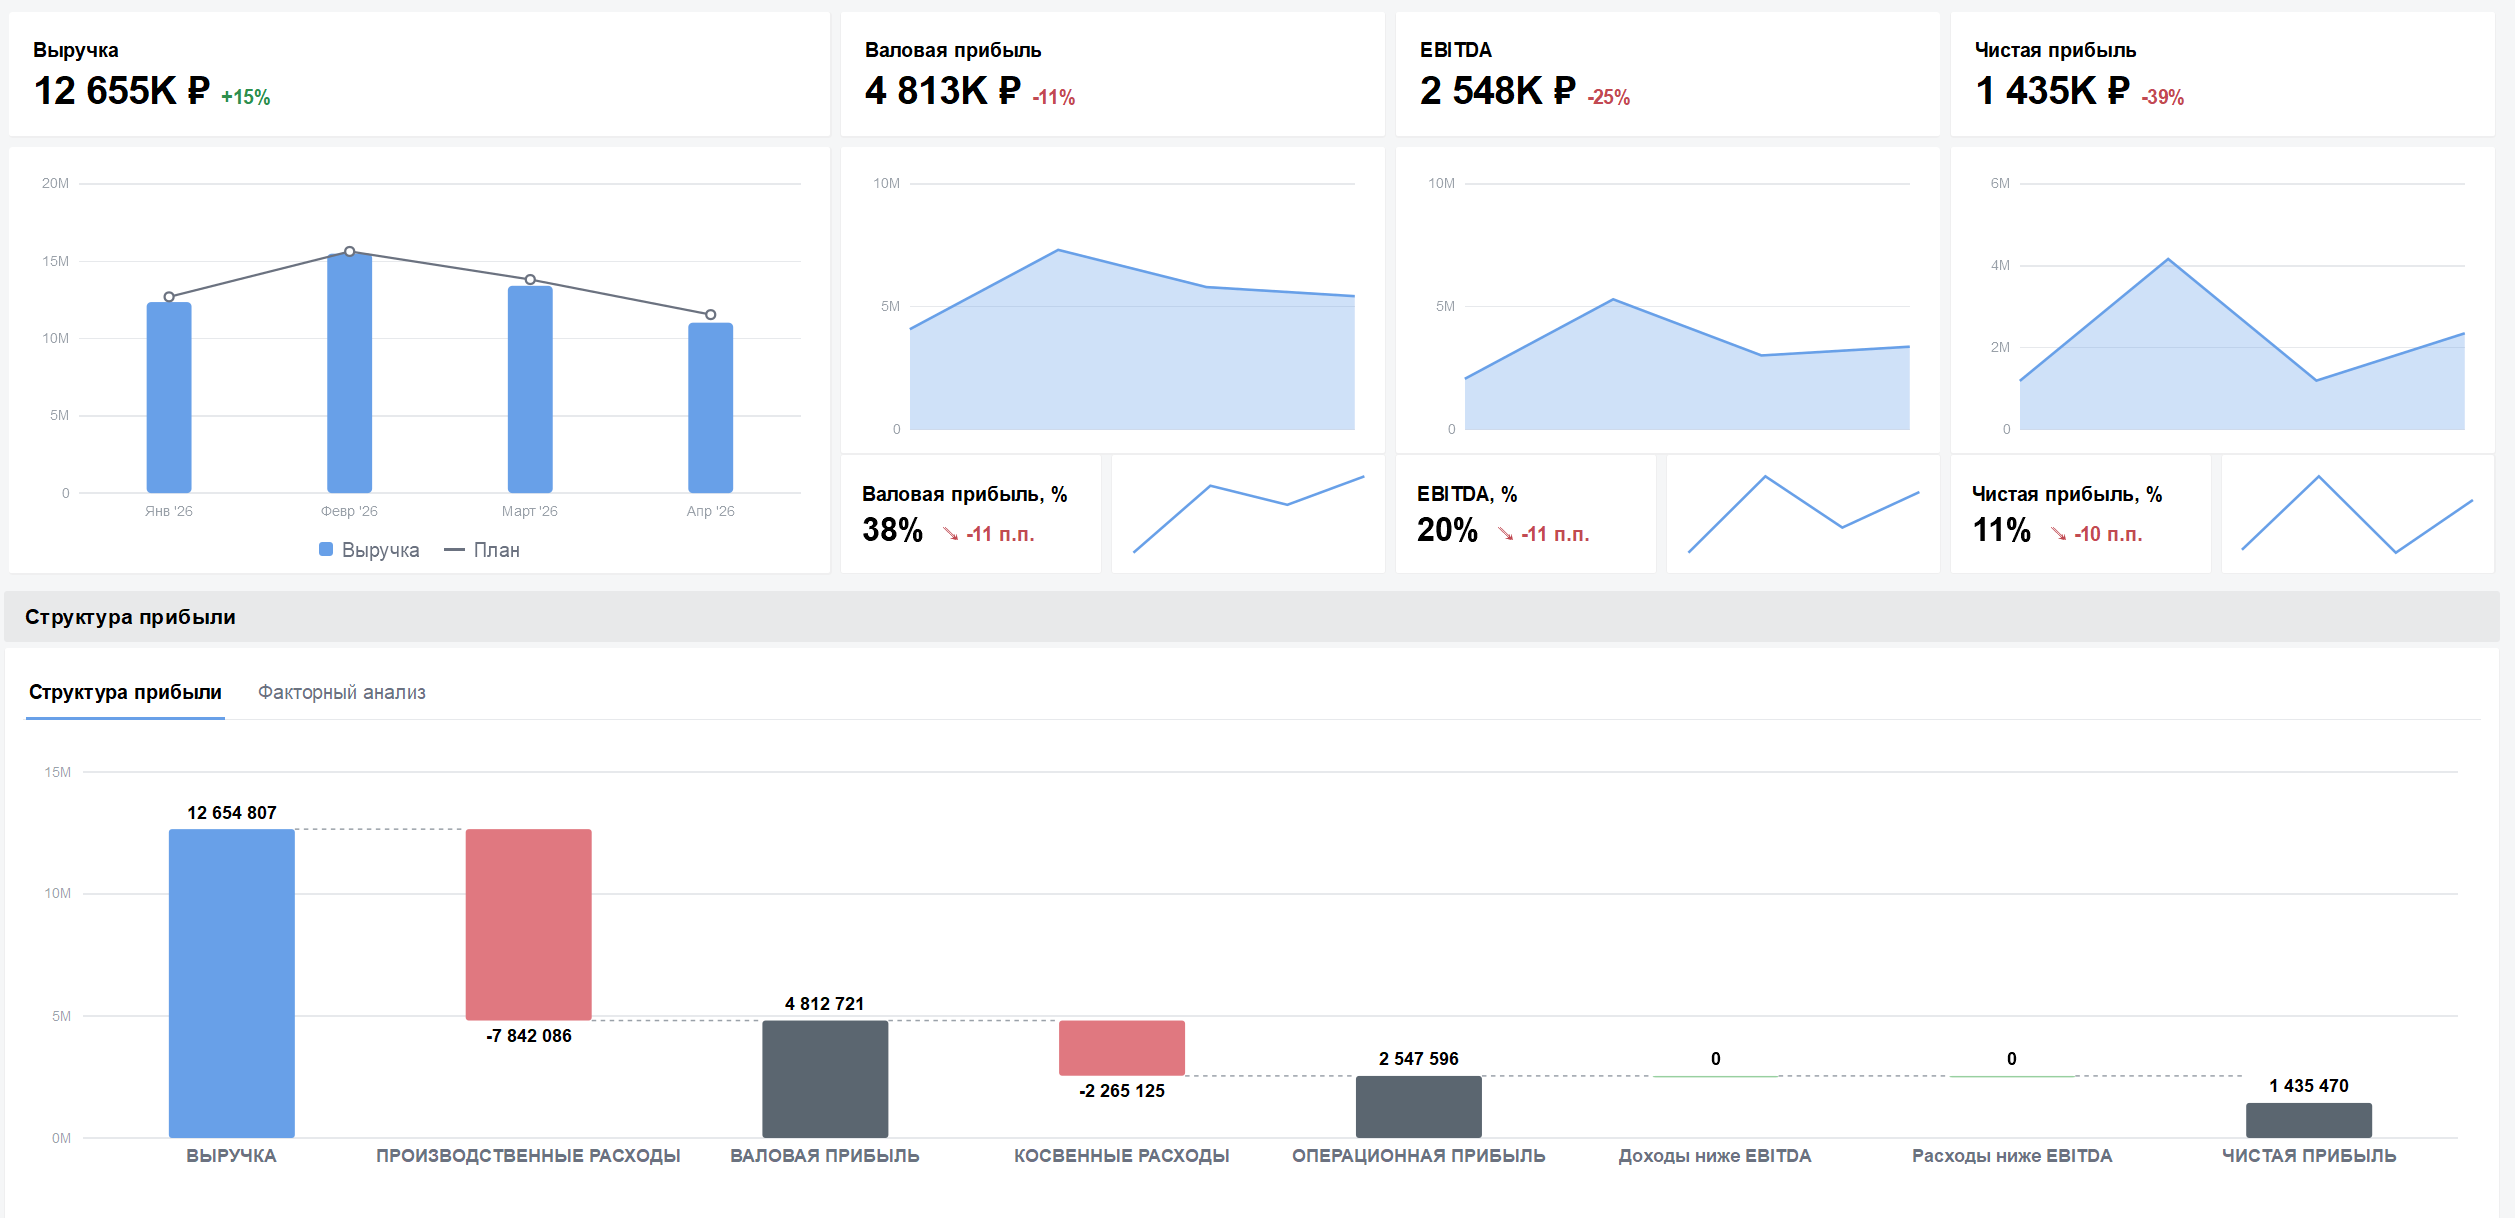
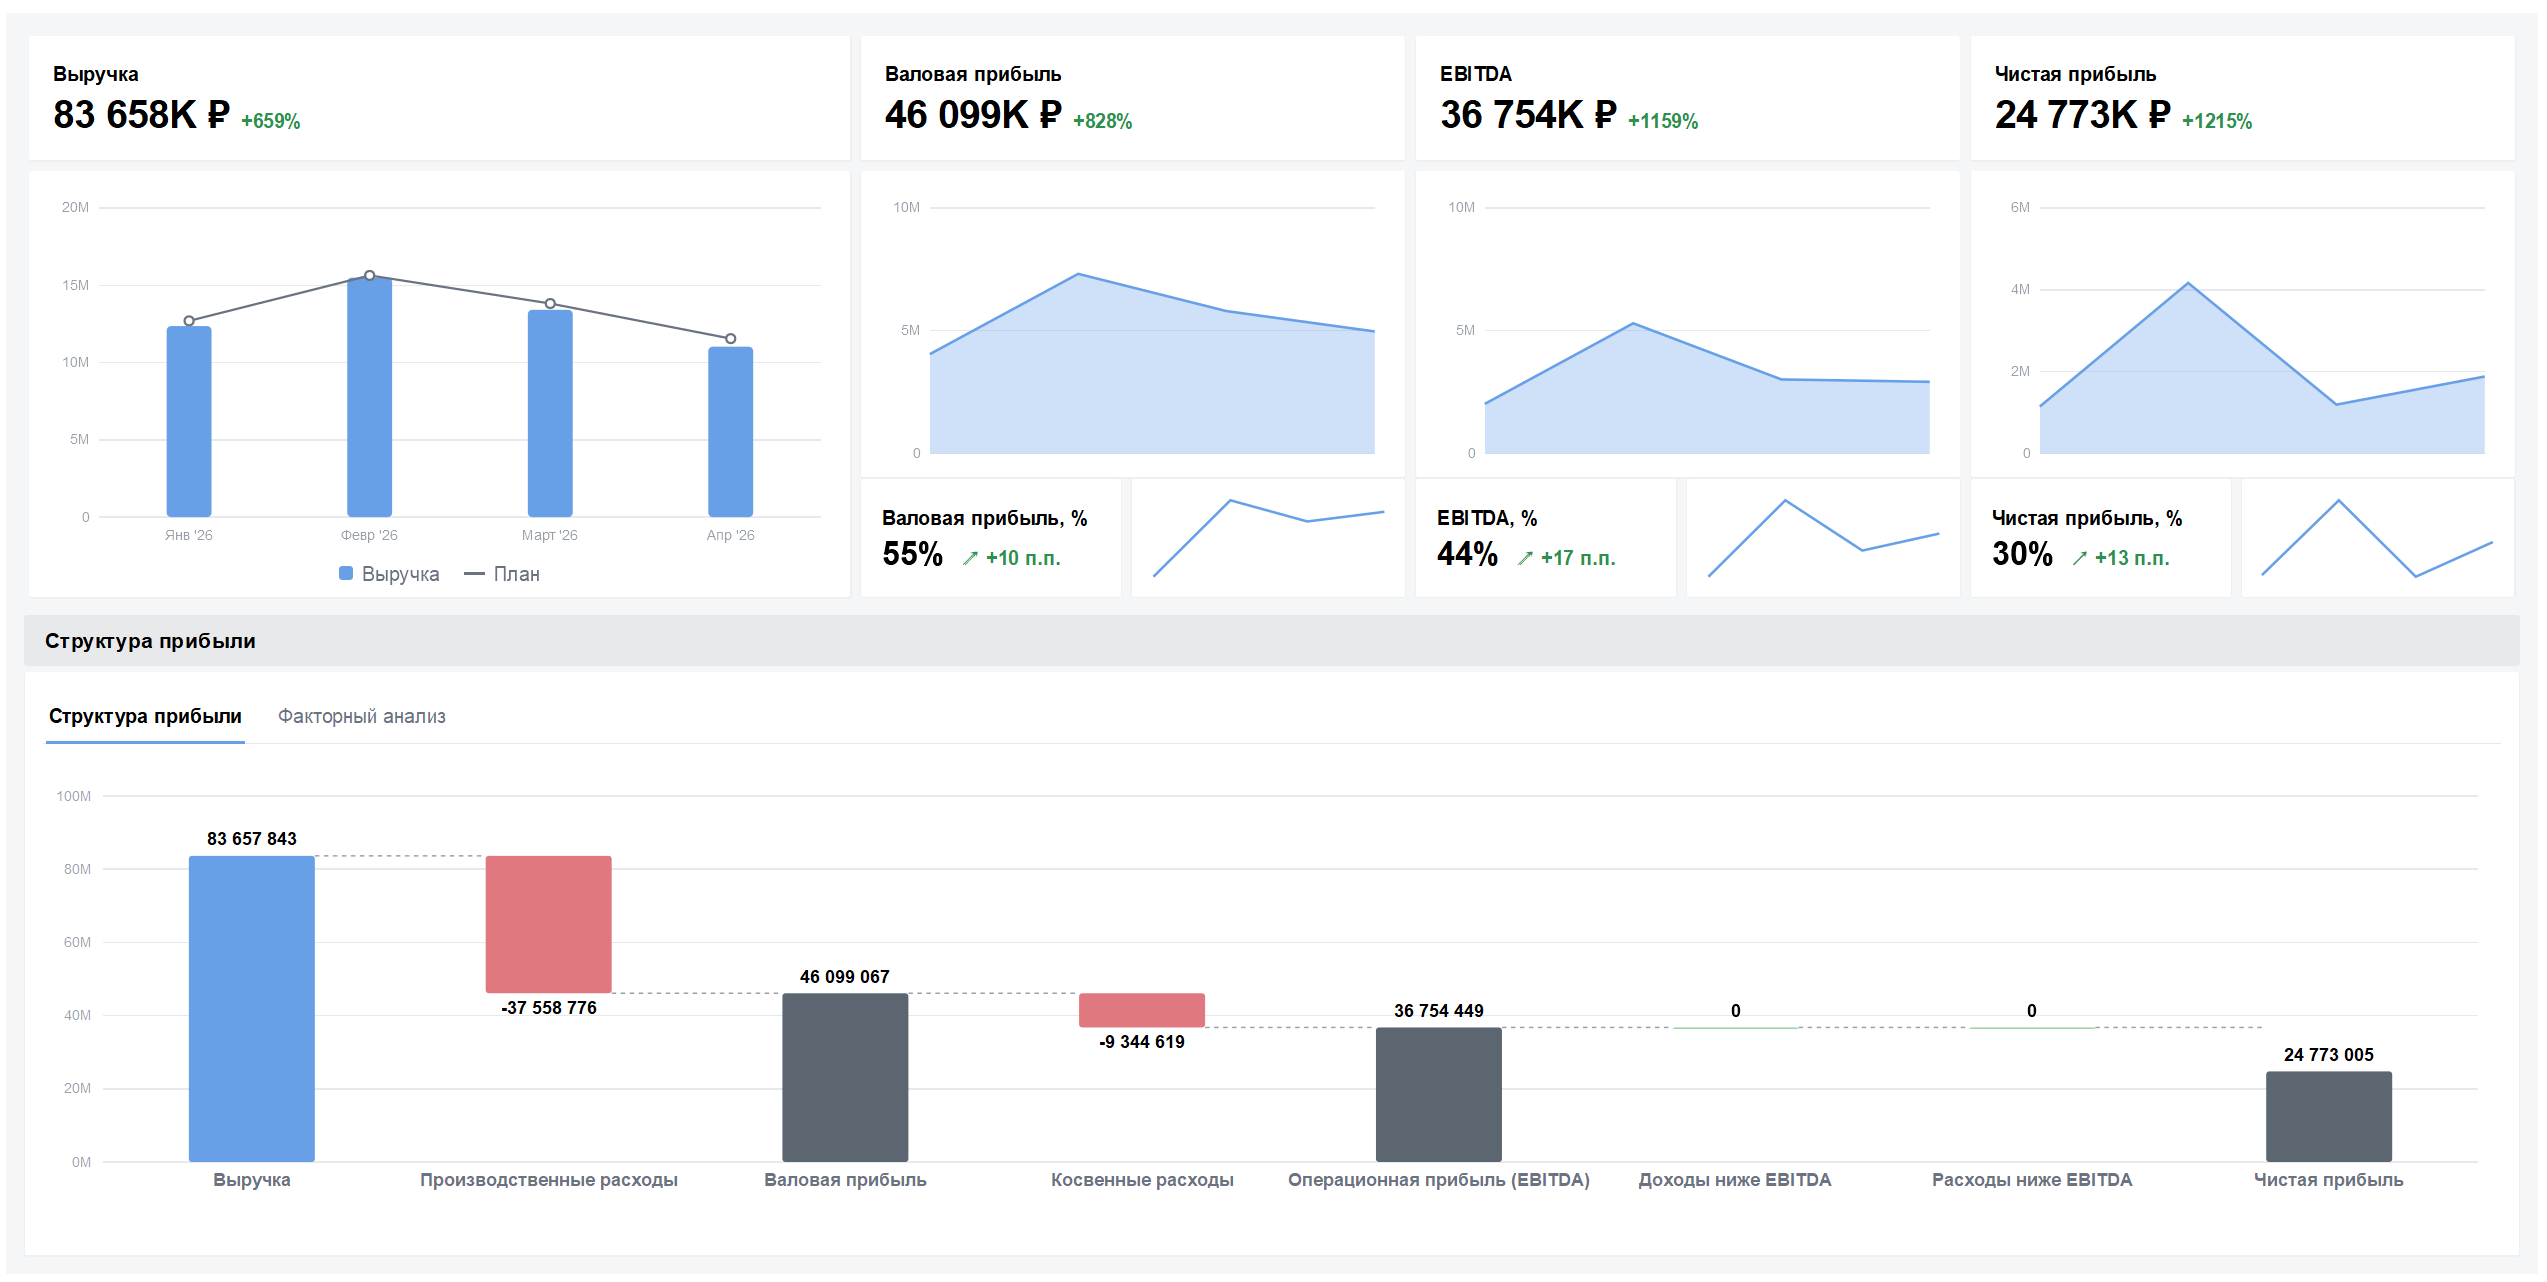
Update 2 files
- chto-novogo-anonsy-relizov/reliz-1-51-0-0-2.md
   - chto-novogo-anonsy-relizov/reliz-1-51-0-0.webp

diff --git a/chto-novogo-anonsy-relizov/reliz-1-51-0-0-2.md b/chto-novogo-anonsy-relizov/reliz-1-51-0-0-2.md
@@ -177,7 +177,7 @@ title: Релиз 1.51.0.0
 
 В панели приборов появилась вторая вкладка -- **«ОПиУ»**. Рядом с денежным дашбордом из релиза 1.50 теперь есть дашборд прибыли: ключевые показатели в динамике, рентабельность в процентах и структура прибыли.
 
-![](./reliz-1-51-0-0.webp){width=2515px height=1218px}
+![](./reliz-1-51-0-0.webp){width=2547px height=1282px}
 
 Основной период, организация, подразделение, проект и доп. аналитика задаются в общих отборах панели. Дополнительные периоды используются соответствующими вкладками.
 
